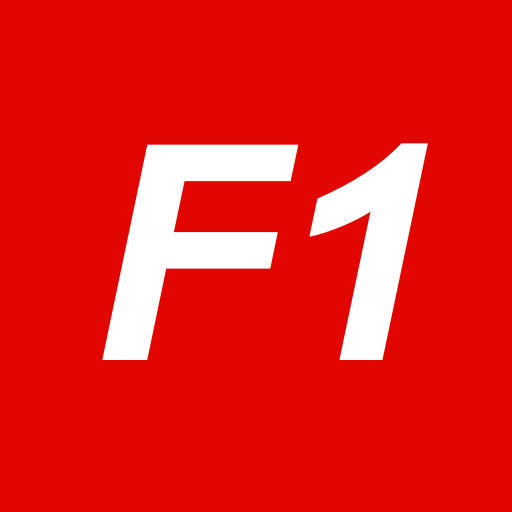
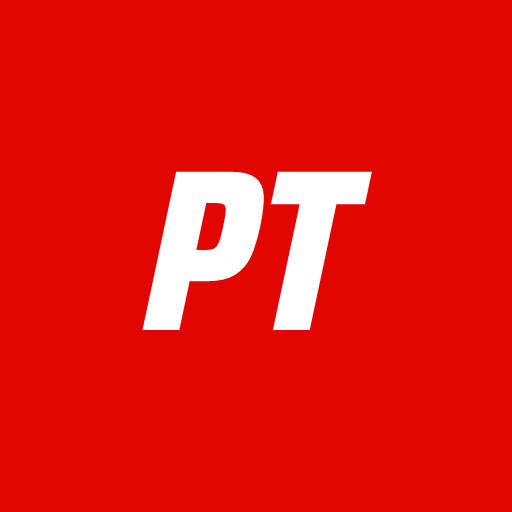
Rename the site to Paddock Times
"F1 Dashboard" was generic (other projects share it) and leaned on the F1
trademark. The site is now Paddock Times everywhere people or search
engines see the name: header and footer wordmark (PT tile), home poster,
page titles and descriptions in both languages, About / Privacy / Support
text, crawler snapshots, link-preview cards, JSON-LD, manifest, app icons
and favicon, calendar feeds, the feedback message and the docs. The address
stays f1-dashboard-bryzhak.onrender.com until a domain is chosen.

Changed region(s): [[0.1875, 0.2812, 0.8438, 0.7188]]

diff --git a/server/src/services/og.ts b/server/src/services/og.ts
@@ -19,8 +19,8 @@ import { UK, ukCountry, ukPlural } from "./ukText";
 // 1200×630 preview image from the URL. `describePage` is shared by the HTML
 // meta injection and the /og/<page path>.png image route.
 
-export const SITE = "F1 Dashboard";
-const DEFAULT_TITLE = `${SITE} — Formula 1 Standings, Calendar & Stats`;
+export const SITE = "Paddock Times";
+const DEFAULT_TITLE = `${SITE}: Formula 1 Standings, Calendar & Stats`;
 const BASE_DESC =
   "Formula 1 standings, race calendar, driver & team career stats, head-to-head comparisons and past-race telemetry — every season from 1950 to today.";
 
@@ -89,7 +89,7 @@ export async function describePage(rawPath: string, lang: Lang = "en"): Promise<
     case undefined:
       return pg(null, uk ? BASE_DESC_UK : BASE_DESC, {
         kind: "default",
-        title: "F1 Dashboard",
+        title: "Paddock Times",
         subtitle: uk
           ? "Залік, календар, статистика пілотів і команд, телеметрія та повтори гонок з 1950 року до сьогодні."
           : "Standings, calendar, driver & team stats, telemetry and race replays — 1950 to today.",
@@ -306,33 +306,33 @@ export async function describePage(rawPath: string, lang: Lang = "en"): Promise<
         "Past-race Formula 1 telemetry: speed, throttle, brake, gear and DRS traces lap by lap, from 2023 onward (OpenF1).",
       );
     case "about":
-      if (uk) return generic("Про проєкт", "Про F1 Dashboard: незалежний фанатський сайт зі статистикою Формули-1, звідки дані (f1db, OpenF1, Wikimedia Commons), точність і незалежність.", "Незалежний фанатський сайт зі статистикою Формули-1.");
+      if (uk) return generic("Про проєкт", "Про Paddock Times: незалежний фанатський сайт зі статистикою Формули-1, звідки дані (f1db, OpenF1, Wikimedia Commons), точність і незалежність.", "Незалежний фанатський сайт зі статистикою Формули-1.");
       return generic(
         "About",
-        "About F1 Dashboard: an independent, fan-made Formula 1 statistics site: where the data comes from (f1db, OpenF1, Wikimedia Commons), accuracy and independence.",
+        "About Paddock Times: an independent, fan-made Formula 1 statistics site: where the data comes from (f1db, OpenF1, Wikimedia Commons), accuracy and independence.",
         "An independent, fan-made Formula 1 statistics site.",
       );
     case "privacy":
-      if (uk) return generic("Політика конфіденційності", "Як F1 Dashboard працює з даними: Google Analytics, що зберігається у браузері, форма відгуку, сторонній контент і хостинг.", "Як F1 Dashboard працює з даними.");
+      if (uk) return generic("Політика конфіденційності", "Як Paddock Times працює з даними: Google Analytics, що зберігається у браузері, форма відгуку, сторонній контент і хостинг.", "Як Paddock Times працює з даними.");
       return generic(
         "Privacy Policy",
-        "How F1 Dashboard handles data: Google Analytics, what is stored in your browser, the feedback form, third-party content and hosting.",
-        "How F1 Dashboard handles data.",
+        "How Paddock Times handles data: Google Analytics, what is stored in your browser, the feedback form, third-party content and hosting.",
+        "How Paddock Times handles data.",
       );
     case "support":
-      if (uk) return generic("Підтримати F1 Dashboard", "F1 Dashboard безкоштовний, без реклами й облікових записів. Донати допомагають оплачувати хостинг і розробку.", "Безкоштовно, без реклами й облікових записів.");
+      if (uk) return generic("Підтримати Paddock Times", "Сайт Paddock Times безкоштовний, без реклами й облікових записів. Донати допомагають оплачувати хостинг і розробку.", "Безкоштовно, без реклами й облікових записів.");
       return generic(
-        "Support F1 Dashboard",
-        "F1 Dashboard is free, with no ads and no accounts. Donations help pay for hosting and development.",
+        "Support Paddock Times",
+        "Paddock Times is free, with no ads and no accounts. Donations help pay for hosting and development.",
         "Free, no ads, no accounts — donations keep it running.",
       );
     case "feedback":
-      if (uk) return generic("Відгук", "Надішліть відгук, повідомте про помилку чи запропонуйте функцію для F1 Dashboard.");
-      return generic("Feedback", "Send feedback, report a bug or suggest a feature for F1 Dashboard.");
+      if (uk) return generic("Відгук", "Надішліть відгук, повідомте про помилку чи запропонуйте функцію для Paddock Times.");
+      return generic("Feedback", "Send feedback, report a bug or suggest a feature for Paddock Times.");
     default:
       return pg(null, uk ? BASE_DESC_UK : BASE_DESC, {
         kind: "default",
-        title: "F1 Dashboard",
+        title: "Paddock Times",
         subtitle: uk ? "Статистика Формули-1 з 1950 року до сьогодні." : "Formula 1 stats, 1950 to today.",
       });
   }
@@ -380,8 +380,8 @@ function frame(inner: string): string {
   <rect width="${W}" height="${H}" fill="${BG}"/>
   <rect x="0" y="0" width="${W}" height="8" fill="${ACCENT}"/>
   <rect x="64" y="52" width="58" height="36" rx="6" fill="${ACCENT}"/>
-  ${text(76, 80, "F1", 28, 800, "#fff", 'font-style="italic"')}
-  ${text(134, 80, "DASHBOARD", 28, 800, TEXT, 'font-style="italic" letter-spacing="1"')}
+  ${text(93, 80, "PT", 28, 800, "#fff", 'font-style="italic" text-anchor="middle"')}
+  ${text(134, 80, "PADDOCK TIMES", 28, 800, TEXT, 'font-style="italic" letter-spacing="1"')}
   ${inner}
   ${text(64, H - 44, "f1-dashboard-bryzhak.onrender.com", 22, 600, MUTED)}
 </svg>`;

diff --git a/server/src/services/snapshot.ts b/server/src/services/snapshot.ts
@@ -77,7 +77,7 @@ function frame(c: Ctx, body: string): string {
   return (
     `<header><nav aria-label="${c.uk ? "Розділи" : "Sections"}"><ul>${nav}</ul></nav></header>` +
     `<main>${body}</main>` +
-    `<footer><p>${c.a("/about", c.uk ? "Про F1 Dashboard" : "About F1 Dashboard")} ${c.a("/privacy", c.uk ? "Конфіденційність" : "Privacy")} ${c.a("/feedback", c.uk ? "Відгук" : "Feedback")}</p>` +
+    `<footer><p>${c.a("/about", c.uk ? "Про Paddock Times" : "About Paddock Times")} ${c.a("/privacy", c.uk ? "Конфіденційність" : "Privacy")} ${c.a("/feedback", c.uk ? "Відгук" : "Feedback")}</p>` +
     `<p>${c.uk ? "Дані: f1db (CC BY 4.0) і OpenF1. Не пов'язано з Formula 1." : "Data: f1db (CC BY 4.0) and OpenF1. Not affiliated with Formula 1."}</p></footer>`
   );
 }
@@ -98,10 +98,10 @@ async function home(c: Ctx): Promise<string> {
   const st = await getDriverStandings(String(h.season)).catch(() => null);
   const gp = (name: string) => (c.uk ? gpTitle(name, "uk") : `${name} Grand Prix`);
   let body = c.uk
-    ? `<h1>F1 Dashboard: турнірна таблиця, календар і статистика Формули-1</h1>` +
+    ? `<h1>Paddock Times: турнірна таблиця, календар і статистика Формули-1</h1>` +
       `<p>Залік Формули-1, календар гонок з розкладом вікендів, повні результати гонок, путівники трасами, ` +
       `історія пілотів і команд з 1950 року, порівняння пілотів, телеметрія, live-таймінг і повтори гонок.</p>`
-    : `<h1>F1 Dashboard: Formula 1 standings, calendar and stats</h1>` +
+    : `<h1>Paddock Times: Formula 1 standings, calendar and stats</h1>` +
       `<p>Formula 1 championship standings, the race calendar with weekend schedules, full race results, ` +
       `circuit guides, driver and team histories since 1950, head-to-head comparisons, telemetry, live timing and race replays.</p>`;
   const race = h.latestRace;
@@ -436,20 +436,20 @@ const STATIC: Record<string, { en: [string, string]; uk: [string, string] }> = {
     uk: ["Телеметрія Формули-1", "Швидкість, газ, гальма, передача та DRS по колах, з 2023 року."],
   },
   about: {
-    en: ["About F1 Dashboard", "An independent, fan-made Formula 1 statistics site. Data from f1db (CC BY 4.0), OpenF1 and Wikimedia Commons."],
-    uk: ["Про F1 Dashboard", "Незалежний фанатський сайт зі статистикою Формули-1. Дані з f1db (CC BY 4.0), OpenF1 і Wikimedia Commons."],
+    en: ["About Paddock Times", "An independent, fan-made Formula 1 statistics site. Data from f1db (CC BY 4.0), OpenF1 and Wikimedia Commons."],
+    uk: ["Про Paddock Times", "Незалежний фанатський сайт зі статистикою Формули-1. Дані з f1db (CC BY 4.0), OpenF1 і Wikimedia Commons."],
   },
   privacy: {
-    en: ["Privacy policy", "How F1 Dashboard handles data: analytics with consent, what is stored in your browser, the feedback form and hosting."],
-    uk: ["Політика конфіденційності", "Як F1 Dashboard працює з даними: аналітика за згодою, що зберігається у браузері, форма відгуку та хостинг."],
+    en: ["Privacy policy", "How Paddock Times handles data: analytics with consent, what is stored in your browser, the feedback form and hosting."],
+    uk: ["Політика конфіденційності", "Як Paddock Times працює з даними: аналітика за згодою, що зберігається у браузері, форма відгуку та хостинг."],
   },
   support: {
-    en: ["Support F1 Dashboard", "F1 Dashboard is free, with no ads and no accounts. Donations help pay for hosting and development."],
-    uk: ["Підтримати F1 Dashboard", "F1 Dashboard безкоштовний, без реклами й облікових записів. Донати допомагають оплачувати хостинг і розробку."],
+    en: ["Support Paddock Times", "Paddock Times is free, with no ads and no accounts. Donations help pay for hosting and development."],
+    uk: ["Підтримати Paddock Times", "Сайт Paddock Times безкоштовний, без реклами й облікових записів. Донати допомагають оплачувати хостинг і розробку."],
   },
   feedback: {
-    en: ["Feedback", "Report a bug or suggest a feature for F1 Dashboard."],
-    uk: ["Відгук", "Повідомте про помилку чи запропонуйте функцію для F1 Dashboard."],
+    en: ["Feedback", "Report a bug or suggest a feature for Paddock Times."],
+    uk: ["Відгук", "Повідомте про помилку чи запропонуйте функцію для Paddock Times."],
   },
 };
 

diff --git a/client/src/lib/seoText.ts b/client/src/lib/seoText.ts
@@ -14,12 +14,12 @@ export interface SeoText {
 // Site-wide default (the home page uses it).
 export const DEFAULT_SEO: Record<Lang, { title: string; description: string }> = {
   en: {
-    title: 'F1 Dashboard — Formula 1 Standings, Calendar & Stats',
+    title: 'Paddock Times: Formula 1 Standings, Calendar & Stats',
     description:
       'Formula 1 standings, race calendar, driver & team career stats, head-to-head comparisons and past-race telemetry — every season from 1950 to today.',
   },
   uk: {
-    title: 'F1 Dashboard: турнірна таблиця, календар і статистика Формули-1',
+    title: 'Paddock Times: турнірна таблиця, календар і статистика Формули-1',
     description:
       "Залік Формули-1, календар гонок, статистика кар'єри пілотів і команд, порівняння та телеметрія: кожен сезон з 1950 року до сьогодні.",
   },
@@ -194,12 +194,12 @@ export const seoText = {
       ? {
           title: 'Про проєкт',
           description:
-            'Про F1 Dashboard: незалежний фанатський сайт зі статистикою Формули-1, звідки дані (f1db, OpenF1, Wikimedia Commons), точність і незалежність.',
+            'Про Paddock Times: незалежний фанатський сайт зі статистикою Формули-1, звідки дані (f1db, OpenF1, Wikimedia Commons), точність і незалежність.',
         }
       : {
           title: 'About',
           description:
-            'About F1 Dashboard: an independent, fan-made Formula 1 statistics site: where the data comes from (f1db, OpenF1, Wikimedia Commons), accuracy and independence.',
+            'About Paddock Times: an independent, fan-made Formula 1 statistics site: where the data comes from (f1db, OpenF1, Wikimedia Commons), accuracy and independence.',
         },
 
   privacy: (lang: Lang): SeoText =>
@@ -207,35 +207,35 @@ export const seoText = {
       ? {
           title: 'Політика конфіденційності',
           description:
-            'Як F1 Dashboard працює з даними: Google Analytics, що зберігається у браузері, форма відгуку, сторонній контент і хостинг.',
+            'Як Paddock Times працює з даними: Google Analytics, що зберігається у браузері, форма відгуку, сторонній контент і хостинг.',
         }
       : {
           title: 'Privacy Policy',
           description:
-            'How F1 Dashboard handles data: Google Analytics, what is stored in your browser, the feedback form, third-party content and hosting.',
+            'How Paddock Times handles data: Google Analytics, what is stored in your browser, the feedback form, third-party content and hosting.',
         },
 
   support: (lang: Lang): SeoText =>
     uk(lang)
       ? {
-          title: 'Підтримати F1 Dashboard',
+          title: 'Підтримати Paddock Times',
           description:
-            'F1 Dashboard безкоштовний, без реклами й облікових записів. Донати допомагають оплачувати хостинг і розробку.',
+            'Сайт Paddock Times безкоштовний, без реклами й облікових записів. Донати допомагають оплачувати хостинг і розробку.',
         }
       : {
-          title: 'Support F1 Dashboard',
+          title: 'Support Paddock Times',
           description:
-            'F1 Dashboard is free, with no ads and no accounts. Donations help pay for hosting and development.',
+            'Paddock Times is free, with no ads and no accounts. Donations help pay for hosting and development.',
         },
 
   feedback: (lang: Lang): SeoText =>
     uk(lang)
       ? {
           title: 'Відгук',
-          description: 'Надішліть відгук, повідомте про помилку чи запропонуйте функцію для F1 Dashboard.',
+          description: 'Надішліть відгук, повідомте про помилку чи запропонуйте функцію для Paddock Times.',
         }
       : {
           title: 'Feedback',
-          description: 'Send feedback, report a bug or suggest a feature for F1 Dashboard.',
+          description: 'Send feedback, report a bug or suggest a feature for Paddock Times.',
         },
 }

diff --git a/client/index.html b/client/index.html
@@ -14,9 +14,9 @@
       content="Formula 1 standings, race calendar, driver & team career stats, head-to-head comparisons and past-race telemetry — every season from 1950 to today."
     />
     <link rel="canonical" href="https://f1-dashboard-bryzhak.onrender.com/" />
-    <meta property="og:site_name" content="F1 Dashboard" />
+    <meta property="og:site_name" content="Paddock Times" />
     <meta property="og:type" content="website" />
-    <meta property="og:title" content="F1 Dashboard — Formula 1 Standings, Calendar & Stats" />
+    <meta property="og:title" content="Paddock Times: Formula 1 Standings, Calendar & Stats" />
     <meta
       property="og:description"
       content="Championship standings, race results, driver & team career stats and telemetry — 1950 to today."
@@ -26,7 +26,7 @@
     <meta property="og:image:width" content="1200" />
     <meta property="og:image:height" content="630" />
     <meta name="twitter:card" content="summary_large_image" />
-    <meta name="twitter:title" content="F1 Dashboard — Formula 1 Standings, Calendar & Stats" />
+    <meta name="twitter:title" content="Paddock Times: Formula 1 Standings, Calendar & Stats" />
     <meta
       name="twitter:description"
       content="Championship standings, race results, driver & team career stats and telemetry — 1950 to today."
@@ -40,7 +40,7 @@
     <meta name="mobile-web-app-capable" content="yes" />
     <meta name="apple-mobile-web-app-capable" content="yes" />
     <meta name="apple-mobile-web-app-status-bar-style" content="black-translucent" />
-    <meta name="apple-mobile-web-app-title" content="F1 Dashboard" />
+    <meta name="apple-mobile-web-app-title" content="Paddock Times" />
     <!-- Warm the connection to the F1 image CDN that serves the hero (LCP) image.
          No crossorigin: images load without CORS, and only a matching
          connection gets reused. -->
@@ -49,7 +49,7 @@
          applied as a stylesheet; font-display: swap shows text right away. -->
     <link rel="preload" as="style" href="/fonts/fonts.css" onload="this.onload=null;this.rel='stylesheet'" />
     <noscript><link rel="stylesheet" href="/fonts/fonts.css" /></noscript>
-    <title>F1 Dashboard — Formula 1 Standings, Calendar & Stats</title>
+    <title>Paddock Times: Formula 1 Standings, Calendar & Stats</title>
   </head>
   <body>
     <div id="root"></div>

diff --git a/client/src/i18n/uk.ts b/client/src/i18n/uk.ts
@@ -43,7 +43,7 @@ const uk: Dict & Record<string, string> = {
   // Support page
   'sup.title': 'Підтримати проєкт',
   'sup.lead':
-    'F1 Dashboard безкоштовний, без реклами й без реєстрації. Його робить і підтримує одна людина у вільний час. Якщо сайт вам корисний, можна допомогти з оплатою хостингу й розробки.',
+    'Сайт Paddock Times безкоштовний, без реклами й без реєстрації. Його робить і підтримує одна людина у вільний час. Якщо сайт вам корисний, можна допомогти з оплатою хостингу й розробки.',
   'sup.jarTitle': 'Банка monobank',
   'sup.jarText':
     'Будь-яка картка будь-якого банку, Apple Pay чи Google Pay, реєструватися не потрібно. Оплата відбувається на сторінці monobank.',
@@ -65,7 +65,7 @@ const uk: Dict & Record<string, string> = {
   // Cookie banner
   'cookie.label': 'Повідомлення про cookie',
   'cookie.text':
-    'F1 Dashboard використовує cookie Google Analytics, щоб розуміти, як користуються сайтом, лише якщо ви погодитесь. Без згоди аналітичні cookie не встановлюються.',
+    'Paddock Times використовує cookie Google Analytics, щоб розуміти, як користуються сайтом, лише якщо ви погодитесь. Без згоди аналітичні cookie не встановлюються.',
   'cookie.decline': 'Відхилити',
   'cookie.accept': 'Прийняти',
   'cookie.more': 'Політика конфіденційності',

diff --git a/client/src/pages/About.tsx b/client/src/pages/About.tsx
@@ -17,9 +17,9 @@ function Ext({ href, children }: { href: string; children: React.ReactNode }) {
 function AboutEn() {
   return (
     <>
-      <h1>About F1 Dashboard</h1>
+      <h1>About Paddock Times</h1>
       <p className="doc-lead">
-        F1 Dashboard is an independent, fan-made Formula 1 statistics site. It brings championship
+        Paddock Times is an independent, fan-made Formula 1 statistics site. It brings championship
         standings, the race calendar with weekend schedules, full race weekends (race, sprint,
         qualifying and practice), circuit guides, driver and team histories since 1950, head-to-head
         comparisons, telemetry, live timing and race replays together in one place.
@@ -97,9 +97,9 @@ function AboutEn() {
 function AboutUk() {
   return (
     <>
-      <h1>Про F1 Dashboard</h1>
+      <h1>Про Paddock Times</h1>
       <p className="doc-lead">
-        F1 Dashboard: незалежний фанатський сайт зі статистикою Формули-1. Тут зібрано турнірні
+        Paddock Times: незалежний фанатський сайт зі статистикою Формули-1. Тут зібрано турнірні
         таблиці, календар із розкладом вікендів, повні вікенди (гонка, спринт, кваліфікація й
         практики), путівники трасами, історію пілотів і команд з 1950 року, порівняння пілотів,
         телеметрію, live-таймінг і повтори гонок.

diff --git a/client/src/pages/Privacy.tsx b/client/src/pages/Privacy.tsx
@@ -22,7 +22,7 @@ function PrivacyEn({ updated }: { updated: string }) {
       <h1>Privacy policy</h1>
       <p className="doc-updated">Last updated: {updated}</p>
       <p className="doc-lead">
-        F1 Dashboard has no accounts and no ads, and we don&apos;t sell any data. This page explains
+        Paddock Times has no accounts and no ads, and we don&apos;t sell any data. This page explains
         what is collected when you use the site and why.
       </p>
 
@@ -103,7 +103,7 @@ function PrivacyUk({ updated }: { updated: string }) {
       <h1>Політика конфіденційності</h1>
       <p className="doc-updated">Оновлено: {updated}</p>
       <p className="doc-lead">
-        У F1 Dashboard немає облікових записів і реклами, і ми не продаємо жодних даних. Тут
+        У Paddock Times немає облікових записів і реклами, і ми не продаємо жодних даних. Тут
         пояснено, що збирається під час користування сайтом і навіщо.
       </p>
 

diff --git a/client/src/i18n/en.ts b/client/src/i18n/en.ts
@@ -41,7 +41,7 @@ const en = {
   // Support page
   'sup.title': 'Support the project',
   'sup.lead':
-    'F1 Dashboard is free, with no ads and no accounts. One person builds and runs it in their spare time. If the site is useful to you, you can chip in for hosting and development.',
+    'Paddock Times is free, with no ads and no accounts. One person builds and runs it in their spare time. If the site is useful to you, you can chip in for hosting and development.',
   'sup.jarTitle': 'monobank jar',
   'sup.jarText':
     'Any card from any bank, Apple Pay or Google Pay, no sign-up needed. The payment happens on monobank’s own page.',
@@ -64,7 +64,7 @@ const en = {
   // Cookie banner
   'cookie.label': 'Cookie notice',
   'cookie.text':
-    'F1 Dashboard uses Google Analytics cookies to see how the site is used, only if you accept. Without consent no analytics cookies are set.',
+    'Paddock Times uses Google Analytics cookies to see how the site is used, only if you accept. Without consent no analytics cookies are set.',
   'cookie.decline': 'Decline',
   'cookie.accept': 'Accept',
   'cookie.more': 'Privacy policy',

diff --git a/server/src/services/calendarFeed.ts b/server/src/services/calendarFeed.ts
@@ -183,11 +183,11 @@ export async function calendarFeed(lang: FeedLang, racesOnly: boolean): Promise<
   return [
     "BEGIN:VCALENDAR",
     "VERSION:2.0",
-    "PRODID:-//F1 Dashboard//Season calendar//EN",
+    "PRODID:-//Paddock Times//Season calendar//EN",
     "CALSCALE:GREGORIAN",
     "METHOD:PUBLISH",
     `X-WR-CALNAME:${esc(name)}`,
-    `X-WR-CALDESC:${esc(`F1 Dashboard · ${SITE}`)}`,
+    `X-WR-CALDESC:${esc(`Paddock Times · ${SITE}`)}`,
     // How often subscribed apps should re-fetch (a hint; Google decides itself).
     "REFRESH-INTERVAL;VALUE=DURATION:PT12H",
     "X-PUBLISHED-TTL:PT12H",

diff --git a/client/src/components/Footer.tsx b/client/src/components/Footer.tsx
@@ -38,10 +38,10 @@ export default function Footer() {
       <div className="footer-grid">
         <div className="footer-col footer-brand">
           <div className="footer-logo">
-            <span className="mark">F1</span> DASHBOARD
+            <span className="mark">PT</span> PADDOCK TIMES
           </div>
           <p>{t('footer.tagline')}</p>
-          <p className="footer-copy">© {year} F1 Dashboard</p>
+          <p className="footer-copy">© {year} Paddock Times</p>
         </div>
 
         <nav className="footer-col" aria-label="Footer">

diff --git a/client/src/lib/jsonld.ts b/client/src/lib/jsonld.ts
@@ -19,14 +19,14 @@ export function siteLd(): object[] {
     {
       '@context': 'https://schema.org',
       '@type': 'Organization',
-      name: 'F1 Dashboard',
+      name: 'Paddock Times',
       url: BASE,
       logo: `${BASE}/apple-touch-icon.png`,
     },
     {
       '@context': 'https://schema.org',
       '@type': 'WebSite',
-      name: 'F1 Dashboard',
+      name: 'Paddock Times',
       url: BASE,
       description:
         'Formula 1 standings, race calendar, driver & team career stats, head-to-head comparisons and telemetry.',

diff --git a/client/src/hooks/useSeo.ts b/client/src/hooks/useSeo.ts
@@ -6,7 +6,7 @@ import { DEFAULT_SEO } from '../lib/seoText'
 // / Twitter title+description and a canonical URL as the user navigates.
 // Google renders client-side JS, so these are picked up for indexing.
 
-const SITE = 'F1 Dashboard'
+const SITE = 'Paddock Times'
 
 function upsert(selector: string, make: () => HTMLMetaElement, content: string) {
   let el = document.head.querySelector<HTMLMetaElement>(selector)
